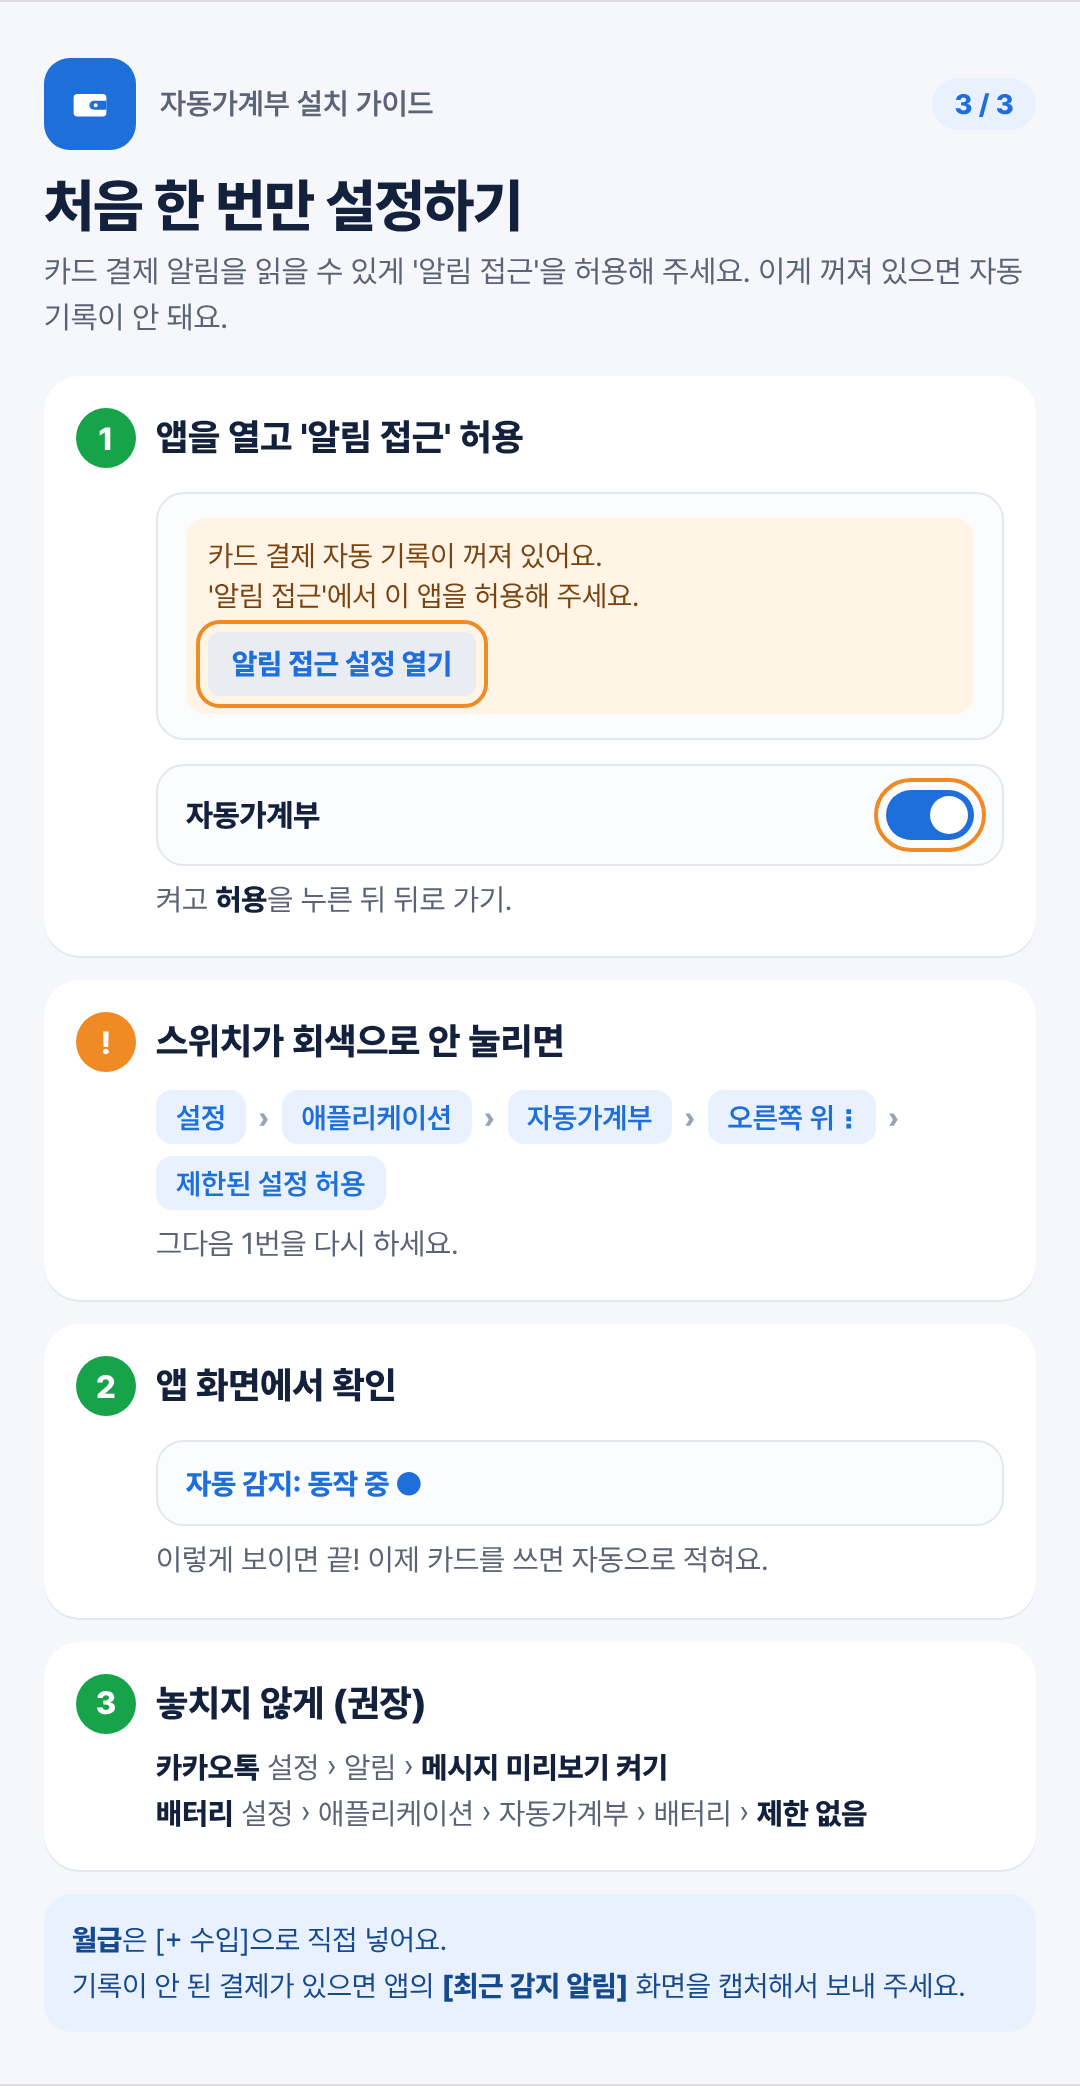
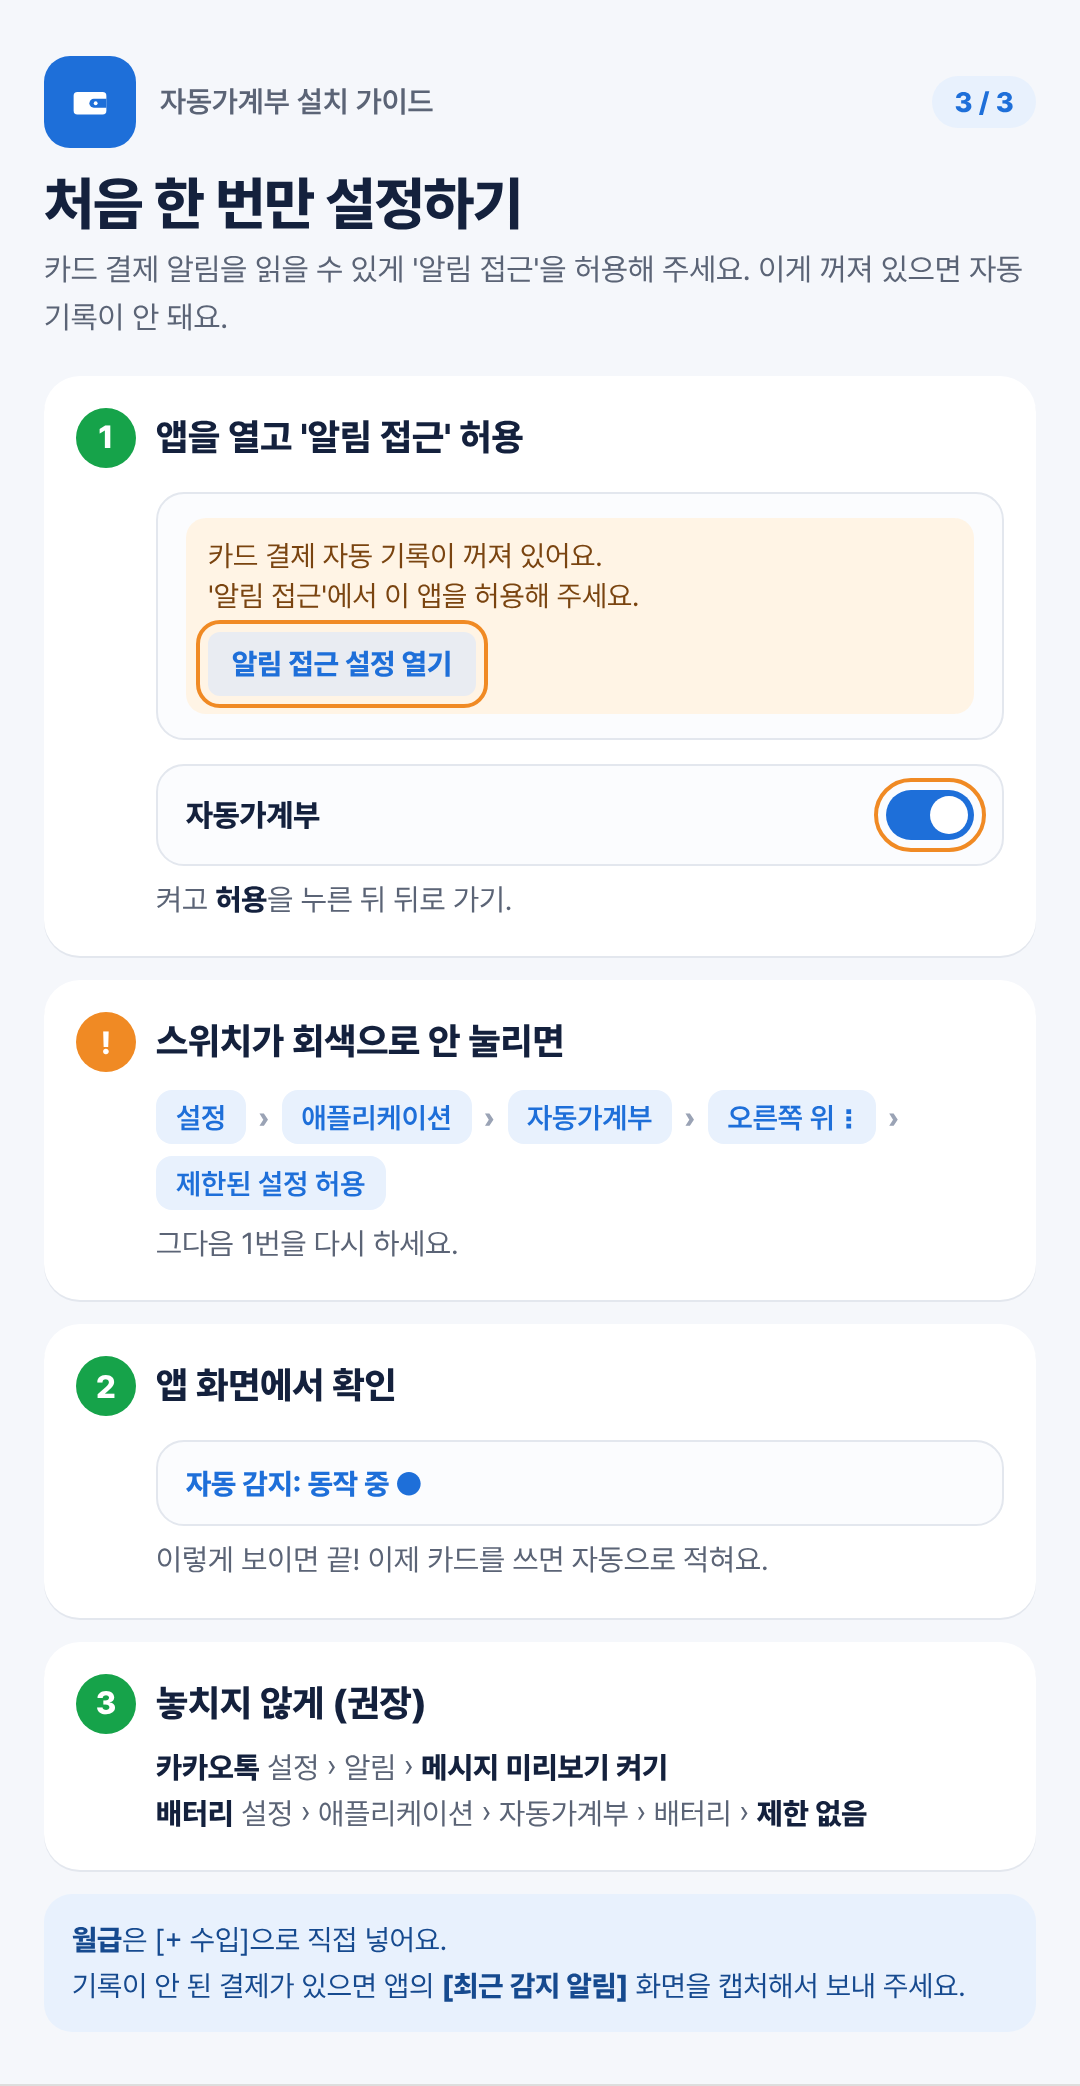
설치 가이드 2장을 실제 화면 위에 안내 표시를 얹은 2-1·2-2 로 교체
보내 받은 캡처에서 형광펜 표시를 지우고 계정 정보를 흐리게 가린 뒤,
누를 곳에 빨간 테두리와 번호를 얹고 옆에 단계 설명을 붙였다.

Claude-Session: https://claude.ai/code/session_01X3WCR1neKZ2ChjCNRxhHiP

diff --git a/expense-app/README.md b/expense-app/README.md
@@ -52,7 +52,7 @@
 ## 가족 공유용 설치 가이드
 
 - 다운로드 링크 (항상 최신 버전): https://github.com/lswlight/1st/releases/download/moneybook-latest/moneybook.apk
-- 그림 가이드 3장 (QR 포함): [1. 다운로드·설치](docs/install-guide-1.png) · [2. 설치가 막힐 때](docs/install-guide-2.png) · [3. 처음 설정](docs/install-guide-3.png)
+- 그림 가이드 4장 (QR 포함, 2장은 실제 휴대폰 화면): [1. 다운로드·설치](docs/install-guide-1.png) · [2-1. 설치가 막힐 때: Play 프로텍트](docs/install-guide-2-1.png) · [2-2. 설치가 막힐 때: 갤럭시 보안](docs/install-guide-2-2.png) · [3. 처음 설정](docs/install-guide-3.png)
 
 ## 설치 (폰)
 
